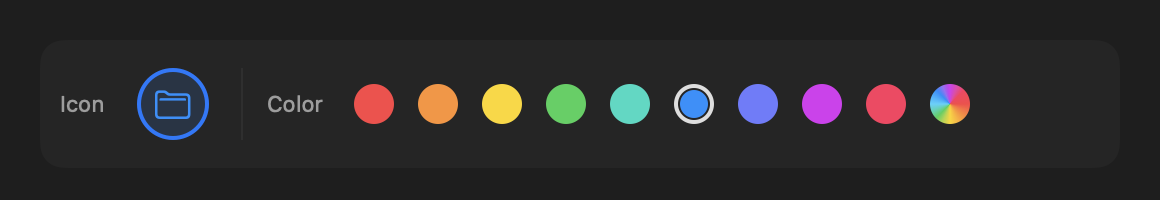
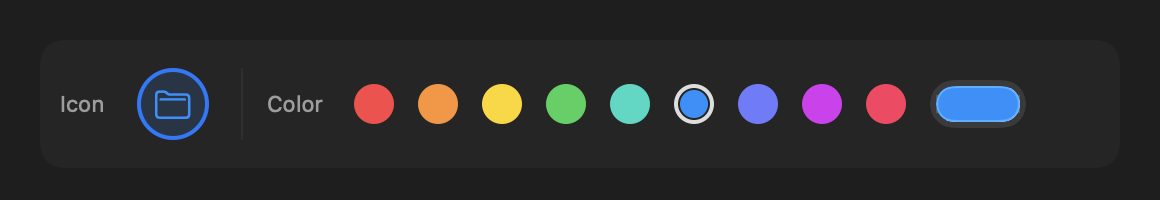
docs: capture README media from the simulator and fix the samples
The IconPickerView stills were Mac renders at phone width, so they never
showed iOS touch sizing or the sheet. They are replaced by iOS 27.2
Simulator captures, and GenerateMedia now writes only the IconPickerRow
stills, re-rendered to show the native color well. An animated demo of
picking a color and icon, scrolling, and searching leads the README.

The palette sample now compiles: symbols: has to come before
allowsCustomColor:. The text also fixes the ready-suggestions snippet,
lists the preset contents and IconSectionLimit, explains persisting a
custom color, scopes search to the current catalog, separates
IconCatalog.search from EmojiCatalog.search, and flags the APIs on
master that are not in 1.2.5.

Changed region(s): [[0.7759, 0.42, 0.9, 0.63]]

diff --git a/Sources/GenerateMedia/GenerateMedia.swift b/Sources/GenerateMedia/GenerateMedia.swift
@@ -15,16 +15,6 @@ struct GenerateMedia {
         try FileManager.default.createDirectory(at: out, withIntermediateDirectories: true)
 
         try write(
-            ViewShot(scheme: .light),
-            size: CGSize(width: 390, height: 780),
-            appearance: .aqua,
-            to: out.appending(path: "iconpickerkit-view-light.png"))
-        try write(
-            ViewShot(scheme: .dark),
-            size: CGSize(width: 390, height: 780),
-            appearance: .darkAqua,
-            to: out.appending(path: "iconpickerkit-view-dark.png"))
-        try write(
             RowShot(scheme: .light),
             size: CGSize(width: 580, height: 100),
             appearance: .aqua,
@@ -34,16 +24,6 @@ struct GenerateMedia {
             size: CGSize(width: 580, height: 100),
             appearance: .darkAqua,
             to: out.appending(path: "iconpickerkit-row-dark.png"))
-        try write(
-            SuggestionsShot(scheme: .light),
-            size: CGSize(width: 390, height: 780),
-            appearance: .aqua,
-            to: out.appending(path: "iconpickerkit-view-suggestions-light.png"))
-        try write(
-            SuggestionsShot(scheme: .dark),
-            size: CGSize(width: 390, height: 780),
-            appearance: .darkAqua,
-            to: out.appending(path: "iconpickerkit-view-suggestions-dark.png"))
     }
 
     @MainActor
@@ -97,38 +77,6 @@ struct GenerateMedia {
             throw Exit("could not finalize \(url.lastPathComponent)")
         }
         print(url.path)
-    }
-}
-
-private struct ViewShot: View {
-    @State private var icon = "folder"
-    @State private var color = IconPickerColor.blue
-    let scheme: ColorScheme
-
-    var body: some View {
-        IconPickerView(icon: self.$icon, color: self.$color, allowsCustomColor: true)
-            .preferredColorScheme(self.scheme)
-    }
-}
-
-private struct SuggestionsShot: View {
-    @State private var icon = "🇫🇷"
-    @State private var color = IconPickerColor.blue
-    let scheme: ColorScheme
-
-    var body: some View {
-        IconPickerView(
-            icon: self.$icon,
-            color: self.$color,
-            allowsCustomColor: true,
-            suggestions: IconSuggestions(items: [
-                IconItem(value: "🇫🇷", name: "France"),
-                IconItem(value: "🥖", name: "Baguette"),
-                IconItem(value: "flag", name: "flag"),
-                IconItem(value: "book", name: "book"),
-                IconItem(value: "globe.europe.africa", name: "globe europe africa"),
-            ]))
-            .preferredColorScheme(self.scheme)
     }
 }
 

diff --git a/README.md b/README.md
@@ -8,15 +8,22 @@ A SwiftUI picker for a tint color plus an emoji or SF Symbol. Bind two values th
 ## Preview
 
 <p>
-  <img src="Docs/Media/iconpickerkit-view-light.png" width="240" alt="IconPickerView in light mode: a Color header and swatches, Search Icons, and the Smileys section.">
-  <img src="Docs/Media/iconpickerkit-view-dark.png" width="240" alt="IconPickerView in dark mode with the same Color header, search field, and Smileys section.">
+  <img src="Docs/Media/iconpickerkit-demo.webp" width="240" alt="IconPickerView in an iPhone sheet: tapping the green swatch tints the selection, tapping the graduation cap selects it, the catalog scrolls under the pinned color and search controls, searching dog shows a hot dog and a dog, and choosing the dog emoji hides the Color section.">
+</p>
+
+Pick a color and a symbol, scroll, then search. Choosing an emoji hides Color, because only SF
+Symbols take the tint.
+
+<p>
+  <img src="Docs/Media/iconpickerkit-iphone-light.jpg" width="240" alt="IconPickerView in an iPhone sheet in light mode: an Icon title with a Done button, Color swatches with blue selected, Search Icons, and the Work section.">
+  <img src="Docs/Media/iconpickerkit-iphone-dark.jpg" width="240" alt="IconPickerView in an iPhone sheet in dark mode with the same Color swatches, search field, and Work section.">
 </p>
 
 `IconPickerView`. Present it in a sheet; you own Done.
 
 <p>
-  <img src="Docs/Media/iconpickerkit-row-light.png" width="360" alt="IconPickerRow in a light form: Icon label and folder button, a divider, then Color and swatches with blue selected.">
-  <img src="Docs/Media/iconpickerkit-row-dark.png" width="360" alt="IconPickerRow in a dark form with Icon and Color labels separated by a divider.">
+  <img src="Docs/Media/iconpickerkit-row-light.png" width="360" alt="IconPickerRow in a light Mac form: Icon label and folder button, a divider, then Color, swatches with blue selected, and a color well for a custom color.">
+  <img src="Docs/Media/iconpickerkit-row-dark.png" width="360" alt="IconPickerRow in a dark Mac form with Icon and Color labels separated by a divider.">
 </p>
 
 `IconPickerRow` in a form.
@@ -39,6 +46,10 @@ Internal to the `hksw-io` org. Add:
 ```
 
 In Xcode: **File > Add Package Dependencies…** and enter the URL above. You need access to the org.
+Add only the `IconPickerKit` library product; `IconPickerKitDemo` is a Mac-only demo app.
+
+Localized catalog metadata, search beyond browse caps, suggestion refresh, and caller symbols
+outside the curated groups are on `master` but not in 1.2.5. They ship in the next tagged release.
 
 ## Usage
 
@@ -70,9 +81,16 @@ struct EditItemView: View {
 }
 ```
 
-`icon` is either an emoji (`"🐶"`) or an SF Symbol name (`"folder"`). Persist `icon` and `color.id`.
+`icon` is either an emoji (`"🐶"`) or an SF Symbol name (`"folder"`). Persist `icon` and
+`color.id`, and restore with `IconPickerColor.all.first { $0.id == savedID }` (or your own
+`colors`). With `allowsCustomColor`, a custom pick has `id == IconPickerColor.customID`, so also
+persist its resolved color and rebuild it with `IconPickerColor.custom(_:)`. Color is only offered
+for SF Symbols: while an emoji is selected the swatches hide and `color` keeps its value.
 
-One mixed catalog, grouped by meaning. Tintable groups (Work, Home, …) come first; Smileys and Animals sit last. Search Icons filters the whole library. Keystrokes debounce for 250 ms.
+One mixed catalog, grouped by meaning. The default order is Work, Home, Health, Places, Nature,
+Objects, Activity, People, Symbols, Food, Smileys, Animals: tintable symbol groups first,
+emoji-heavy groups last. Search Icons filters every group in the current catalog. Keystrokes
+debounce for 250 ms.
 
 Presets set which groups appear, their order, and how many items each shows:
 
@@ -80,10 +98,8 @@ Presets set which groups appear, their order, and how many items each shows:
 IconPickerView(icon: $icon, color: $color, catalog: .compact)
 ```
 
-`.all` is every group, uncapped. `.compact` and `.work` cap each section. Or build your own — Smileys first, 8 each:
-
-Search ignores positive browse caps and trims surrounding whitespace. Omitted groups and groups
-with a zero or negative limit remain excluded. A miss shows the system's search-empty state.
+`.all` is every group, uncapped. `.compact` is Work 12, Home 8, Places 8, Objects 12, Symbols 8,
+People 8. `.work` is Work 16, Home 12, Objects 12. Or build your own — Smileys first, 8 each:
 
 ```swift
 IconPickerView(
@@ -93,6 +109,12 @@ IconPickerView(
         groups: [.smileys] + IconGroup.allCases.filter { $0 != .smileys && $0 != .suggestions },
         limit: 8))
 ```
+
+For different caps per group, pass
+`IconCatalogPreset([IconSectionLimit(.work, limit: 12), IconSectionLimit(.smileys)])`.
+
+Search ignores positive browse caps and trims surrounding whitespace. Omitted groups and groups
+with a zero or negative limit remain excluded. A miss shows the system's search-empty state.
 
 ### Suggested icons
 
@@ -119,25 +141,31 @@ Start the on-device model **before** presenting the picker so the Suggestions gr
 Or await a finished result and pass that — the extra group is on the first frame:
 
 ```swift
-let suggestions = await IconSuggestions.load(hint: deckName)
-IconPickerView(icon: $icon, color: $color, suggestions: suggestions)
+@State private var ready = IconSuggestions.empty
+
+// before presenting:
+ready = await IconSuggestions.load(hint: deckName)
+showingPicker = true
+
+// in the sheet:
+IconPickerView(icon: $icon, color: $color, suggestions: ready)
 ```
 
 Replacing the task, ready result, or hint refreshes suggestions in an already-presented picker.
 The picker ignores cancelled requests; the caller owns cancellation of supplied preload tasks,
 as in the example above. Clearing the hint or supplied result clears the old suggestions.
 
-Passing only `hint:` still asks the model after appear. Usable emoji or SF Symbol names (a deck called `"French"` can surface 🇫🇷) show as a Suggestions group at the top. If the model is off, unavailable, or returns nothing usable, the extra group is omitted. No API key.
+Passing only `hint:` still asks the model after appear. Usable emoji or SF Symbol names (a deck called `"French"` can surface 🇫🇷) show as a Suggestions group at the top. If the model is off, unavailable, or returns nothing usable, the extra group is omitted. No API key. If you pass both `hint:` and a `suggestions:` task, the task wins.
 
 ```swift
 IconPickerView(icon: $icon, color: $color, hint: deckName)
 ```
 
-Color and search stay pinned above the catalog. The picker scrolls to the current icon on first layout without waiting for suggestions, animates that scroll, and skips it when the icon is already on screen. When suggestions arrive after appear, the group expands in at the top if you are still there; a scrolled catalog keeps its place.
+Color, search, and the current section title stay pinned above the catalog. On iPhone and iPad the picker scrolls to the current icon on first layout without waiting for suggestions, animates that scroll (Reduce Motion jumps instead), and skips it when the icon is already on screen or you have scrolled. On macOS it stays at the top. When suggestions arrive after appear, the group expands in at the top if you are still there; a scrolled catalog keeps its place.
 
 <p>
-  <img src="Docs/Media/iconpickerkit-view-suggestions-light.png" width="240" alt="IconPickerView in light mode with a Suggestions group: the French flag selected, then baguette, flag, book, and globe icons, above Smileys.">
-  <img src="Docs/Media/iconpickerkit-view-suggestions-dark.png" width="240" alt="IconPickerView in dark mode with the same Suggestions group and selected French flag.">
+  <img src="Docs/Media/iconpickerkit-iphone-suggestions-light.jpg" width="240" alt="IconPickerView in light mode with an emoji selected, so Color is hidden: Search Icons, then a Suggestions group with the French flag selected, baguette, flag, book, and globe icons, above Work.">
+  <img src="Docs/Media/iconpickerkit-iphone-suggestions-dark.jpg" width="240" alt="IconPickerView in dark mode with the same Suggestions group and selected French flag, above Work.">
 </p>
 
 ### On Mac
@@ -160,8 +188,8 @@ IconPickerView(
     icon: self.$icon,
     color: self.$color,
     colors: [.blue, brand],
-    allowsCustomColor: true,
     symbols: ["folder", "star", "heart"],
+    allowsCustomColor: true,
     labels: IconPickerLabels(
         color: String(localized: "picker.color"),
         icon: String(localized: "picker.icon"),
@@ -170,10 +198,16 @@ IconPickerView(
         suggestions: String(localized: "picker.suggestions")))
 ```
 
-`IconPickerRow` takes the same `colors`, `symbols`, and `labels` arguments.
+`IconPickerRow` takes the same `colors`, `symbols`, `allowsCustomColor`, and `labels` arguments.
+It has no `catalog`, `hint`, or `suggestions`; its popover always shows every group.
+
+`symbols:` is an allow-list: curated groups keep only the SF Symbols you pass, and emoji are
+unaffected. Start from `SymbolCatalog.ids` to add to the defaults.
 
 Supplied SF Symbols outside the curated groups appear in Symbols, in caller order, without
 duplicates. Include `.symbols` when using a custom preset if these icons should be available.
+They come after the curated Symbols items, so a positive `.symbols` cap (as in `.compact`) hides
+them while browsing; search still finds them.
 
 Localize the catalog as well as its chrome through `IconPickerLabels`. Metadata is keyed by
 stable icon values and color IDs, so changing language never changes saved selections:
@@ -191,13 +225,17 @@ let labels = IconPickerLabels(
 Use your app's localized strings for these values. Names feed both search and VoiceOver;
 localized keywords supplement existing keywords, and raw symbol IDs remain searchable.
 The public `IconCatalog` methods also accept `labels:` and return localized section titles
-and item metadata. Missing overrides retain the English defaults.
+and item metadata. Missing overrides retain the English defaults. Section titles come from
+`groupTitles` (Suggestions falls back to `suggestions`); the `emojis` and `symbols` labels are
+unused.
 
 Search and classification are also public if you want the catalogs without the view:
 
 ```swift
-let hits = EmojiCatalog.search("dog")
+let sections = IconCatalog.search("dog")  // the picker's search: mixed, trimmed, localizable
+let emoji = EmojiCatalog.search("dog")  // emoji only, English metadata
 let kind = IconKind.classify("🐶")  // .emoji
+let tintable = IconKind.offersColorChrome(for: "folder")  // true
 ```
 
 ## Local development
@@ -208,13 +246,12 @@ swift run GenerateMedia
 ./scripts/run-demo.sh
 ```
 
-`GenerateMedia` rewrites the README stills in `Docs/Media`.
+Run `swift run GenerateMedia` from the package root in a logged-in macOS session. It rewrites the
+`IconPickerRow` stills in `Docs/Media`, which are Mac renders. The `IconPickerView` stills and the
+demo are captured from the iOS 27.2 Simulator (iPhone 17 Pro), because a Mac render at phone width
+would not show iOS touch sizing.
 
 `./scripts/run-demo.sh` builds a real Mac app and opens it (Dock and Cmd-Tab). Catalog is the full picker with color and search pinned. Form row is the compact control. The inspector hint plus **Delay 2 seconds** starts canned suggestions after a pause so you can scroll first. **Reload** runs that again. Turn Delay off to use the on-device model.
-
-## License
-
-MIT. See [LICENSE](LICENSE).
 
 ## OS 27 compatibility
 
@@ -226,3 +263,7 @@ its toolchain generation explicitly; the 27 image is maintained by GitHub as
 [`xcode-27`](https://github.com/actions/runner-images/issues/14404). New SDK-only APIs must
 preserve the existing deployment and compiler minimums. Local SDK 27.2 validation complements
 these jobs; a local pass does not establish the result of a hosted CI run.
+
+## License
+
+MIT. See [LICENSE](LICENSE).
